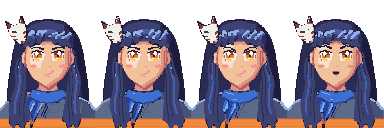
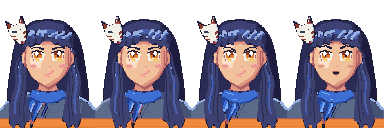
Shade: softly rounded chin point
Claude-Session: https://claude.ai/code/session_01J8LgTLVYzThXjNSRVhWqep

diff --git a/tools/sprites/anime_flicker.py b/tools/sprites/anime_flicker.py
@@ -55,10 +55,10 @@ FBASE = dict(mouth="smirk", hair="long", eyes="animeB", mask="side", scarf="tail
 # ---------------------------------------------------------------- female face shape (explicit, per character)
 # Cheek width and chin are SEPARATE: cheek0 scales the face width below y 27 exactly as Sakura's does (Shade -0.03). Approved female
 # chin: Sakura's rounded jaw (SFACE0 down to the jaw corner (31.8, 39.4), then one soft point at (26.95, 42.34)) that ends in a small
-# POINTED CORNER: the two jaw curves meet at a single tip (24, tip_y), no flat or U-shaped chin. cw sets the lower jaw point's width
+# softly ROUNDED POINT: the two jaw curves meet in a tiny arc (3 points, 1.5 units wide, apex (24, tip_y)), no flat or U-shaped chin. cw sets the lower jaw point's width
 # (8.0 = Sakura's 28.0 at 42.2), tip_y the tip level (43.0 = Sakura's chin level).
-F_CHIN_STEPS = [(8.0, 43.0), (6.5, 43.8), (6.5, 44.4), (6.5, 45.0)]      # (cw, tip_y): A round .. D sharper
-F_CHIN_SHIP = (6.5, 44.4)
+F_CHIN_STEPS = [(8.0, 43.0), (6.5, 43.6), (6.5, 44.0), (6.5, 44.4)]      # (cw, tip_y): A round .. D sharper
+F_CHIN_SHIP = (6.5, 44.0)
 F_FACE = {"chin": F_CHIN_SHIP, "cheek0": -0.03}
 
 
@@ -66,7 +66,7 @@ def f_face_pts():
     cw, tip_y = F_FACE["chin"]
     f = F_FACE["cheek0"]
     base = ab.SFACE0[:6]                      # ... (31.8, 39.4): cheeks and jaw unchanged
-    right_low = [(28.0 + (cw - 8.0) * 0.5 - 0.3, 42.34), (24.0, tip_y)]
+    right_low = [(28.0 + (cw - 8.0) * 0.5 - 0.3, 42.34), (24.75, tip_y - 0.35), (24.0, tip_y)]   # a tiny arc (1.5 wide) as the tip
     left_low = [(48 - x, y) for x, y in right_low[::-1]][1:]
     pts = base + right_low + left_low + ab.SFACE0[9:]
     return [(24 + (x - 24) * (1 + f), y) if y > 27 else (x, y) for x, y in pts]

diff --git a/.claude/skills/anime-pixel-art/SKILL.md b/.claude/skills/anime-pixel-art/SKILL.md
@@ -84,15 +84,15 @@ Reference: `assets/title/anime/sakura_bust.png`, code = the Sakura section of `t
 (-1.5, -1.4) units, only below y 29) in SK_S, never a diagonal cheek plane. Keep ink outline, lit left, deep strip + rim right,
 chin shadow on the neck. Neck short (`STOFF` 0.8 vs Flint's 3.5), shoulders softly sloped.
 
-**Female chin: rounded jaw ending in a small pointed corner; cheeks are separate (APPROVED 2026-11-06, Shade)**: user feedback went "a tad
+**Female chin: rounded jaw ending in a softly rounded point; cheeks are separate (APPROVED 2026-11-06, Shade)**: user feedback went "a tad
 pointier" -> "dont change cheek size" -> "like the bottom of a heart" -> "I want the left side [the fuller, rounder lower cheeks / jaw],
-but the chin a corner like the right side". So: keep Sakura's rounded jaw exactly, and only the very bottom changes: the two jaw curves
-meet in ONE defined point at the chin centre (no flat chin, no rounded U bottom). Cheek width is its own number (`cheek0`: Sakura
+but the chin a corner like the right side", then "point is too sharp, round it out a bit". So: keep Sakura's rounded jaw exactly, and only the very bottom changes: the two jaw curves
+meet in ONE small, softly rounded point at the chin centre (a tiny arc, no sharp corner, no flat chin, no rounded U bottom). Cheek width is its own number (`cheek0`: Sakura
 +0.03, Shade -0.03, scales x of every point below y 27 as `s_face_pts` does); narrowing the cheeks exposes dark ear notches, don't. Points
 (`f_face_pts` in `tools/sprites/anime_flicker.py`, patched over `ab.s_face_pts` at runtime, anime_busts.py untouched): `SFACE0` down to
-(31.8, 39.4) unchanged, then (28.0 + (cw - 8) * 0.5 - 0.3, 42.34), then the tip (24, tip_y), mirrored. Shade ships **cw 6.5, tip_y 44.4**
-(tip about 1.4 below Sakura's chin level 43.0; a 1-2 px point at x1; the jaw shadow band follows it). Steps `F_CHIN_STEPS` (cw, tip_y): A
-(8.0, 43.0) round like Sakura, B (6.5, 43.8), C (6.5, 44.4) shipped, D (6.5, 45.0) sharper. A pure heart-shaped taper (jaw curves
+(31.8, 39.4) unchanged, then (28.0 + (cw - 8) * 0.5 - 0.3, 42.34), then a 3-point arc (24.75, tip_y - 0.35), (24, tip_y), mirrored (1.5 units wide). Shade ships **cw 6.5, tip_y 44.0**
+(tip 1.0 below Sakura's chin level 43.0; a small soft point at x1; the jaw shadow band follows it; tip_y 44.4 with a single corner was too sharp). Steps `F_CHIN_STEPS` (cw, tip_y): A
+(8.0, 43.0) round like Sakura, B (6.5, 43.6), C (6.5, 44.0) shipped, D (6.5, 44.4) sharper. A pure heart-shaped taper (jaw curves
 convex from the cheek point down to the tip, `x = 24 + 11.6 * (1 - t^1.5)`) was tried and rejected: too narrow in the lower cheeks. Render
 `female_chins.png` (Shade + Sakura at the steps) to compare before changing a face.
 
